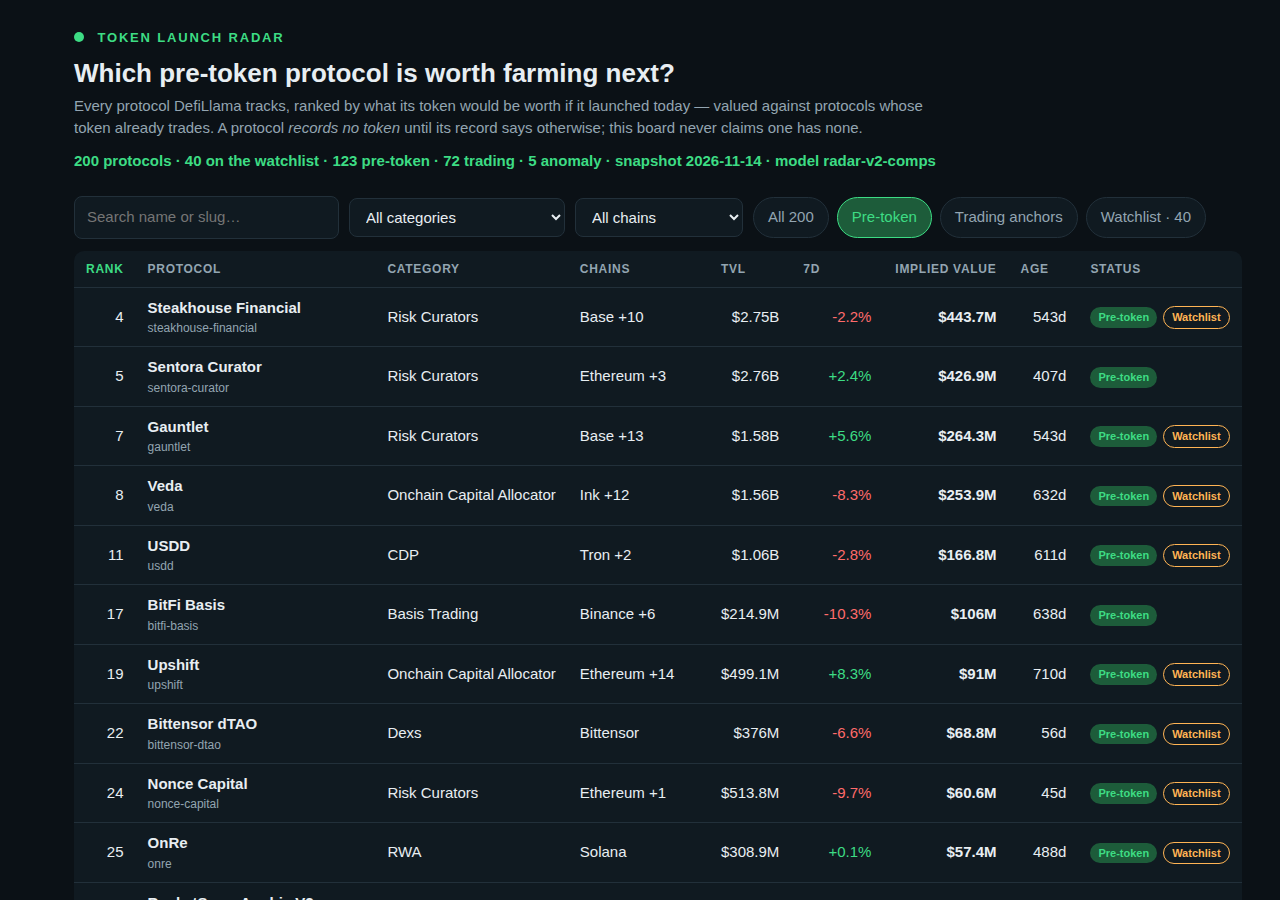
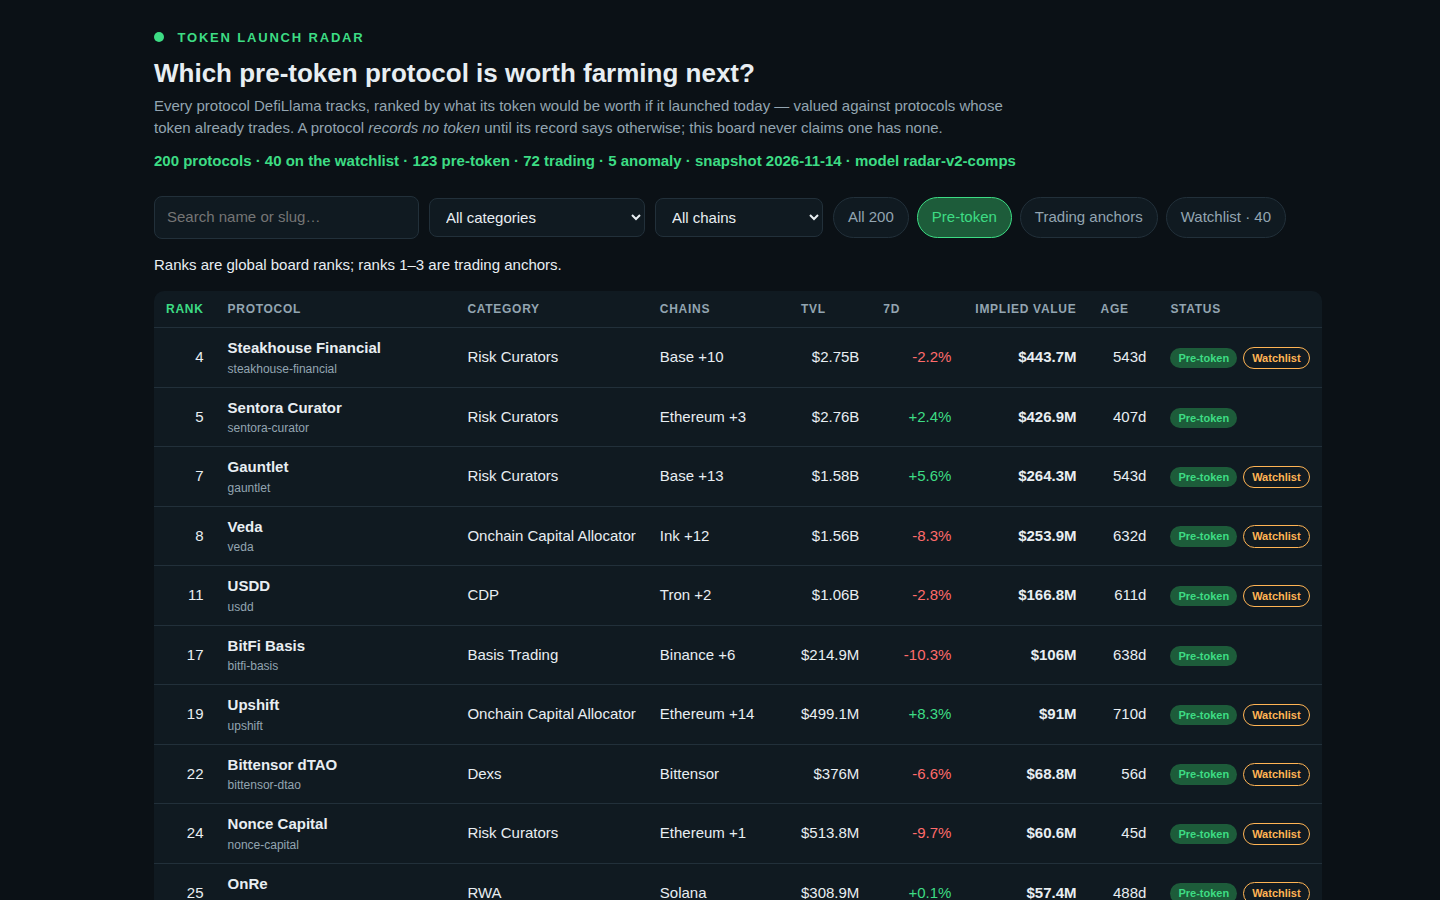
Round 6: charts screenshot, P_launch fill, META labels, rank caption
- 4th screenshot (4-charts.png, 1440x1200) shows both charts: comps multiple
  by category + TVL-vs-value scatter; slot 4/4 now used.
- P_launch renders as a 0-1 probability fill (green, toward 100%) instead of
  an amber diverging bar; note under the factors states M_cat and P_launch
  are below 1.0 for every pre-token protocol by construction.
- Pill labels (All N, Watchlist N) and the snapshot date / model version in
  the method note and footer now come from the embedded META data.
- Rank caption under the controls: ranks 1-3 are trading anchors (shown only
  on the pre-token / watchlist views).
- Board values unchanged (board.json byte-identical to round 5); dossier text
  61,344 bytes, headroom 4,192.

diff --git a/dashboard/app.js b/dashboard/app.js
@@ -94,6 +94,10 @@ function filtered() {
 
 function render() {
   const list = filtered();
+  // Ranks 1–3 are trading anchors, so the default pre-token view starts at rank 4.
+  // Say so only where it applies (pre-token / watchlist), not on the all / trading views.
+  const rankNote = $('rankNote');
+  if (rankNote) rankNote.hidden = !(statusFilter === 'pre-token' || statusFilter === 'watchlist');
   rowsEl.innerHTML = list.map((r) => {
     const chg = r.change_7d;
     const cls = chg === null ? '' : chg >= 0 ? 'up' : 'down';
@@ -119,14 +123,21 @@ function esc(s) {
   return String(s).replace(/&/g, '&amp;').replace(/</g, '&lt;').replace(/>/g, '&gt;').replace(/"/g, '&quot;');
 }
 
-function factorCard(label, value, note, num) {
+function factorCard(label, value, note, num, fill) {
   let bar = '';
   if (typeof num === 'number' && Number.isFinite(num) && num > 0) {
-    // Diverging bar centred on 1.0 (neutral): log scale, 0.05..20 spans the track.
-    const pos = Math.max(0, Math.min(100, 50 + (Math.log10(num) / 1.3) * 50));
-    const left = Math.min(50, pos), w = Math.abs(pos - 50);
-    const col = num >= 1 ? 'var(--accent)' : '#d97706';
-    bar = `<div class="fbar" role="img" aria-label="${label} ${num}"><div class="ftrack"><div class="ffill" style="left:${left.toFixed(1)}%;width:${Math.max(w, 1.5).toFixed(1)}%;background:${col}"></div><div class="fmid"></div></div></div>`;
+    if (fill) {
+      // Probability fill (0–1): fills left to right toward 100%, never amber-left.
+      // P_launch is a stated prior, so a fill reads as "how likely", not "how negative".
+      const w = Math.max(1.5, Math.min(100, num * 100));
+      bar = `<div class="fbar" role="img" aria-label="${label} ${num}"><div class="ftrack"><div class="ffill" style="left:0;width:${w.toFixed(1)}%;background:var(--accent)"></div></div></div>`;
+    } else {
+      // Diverging bar centred on 1.0 (neutral): log scale, 0.05..20 spans the track.
+      const pos = Math.max(0, Math.min(100, 50 + (Math.log10(num) / 1.3) * 50));
+      const left = Math.min(50, pos), w = Math.abs(pos - 50);
+      const col = num >= 1 ? 'var(--accent)' : '#d97706';
+      bar = `<div class="fbar" role="img" aria-label="${label} ${num}"><div class="ftrack"><div class="ffill" style="left:${left.toFixed(1)}%;width:${Math.max(w, 1.5).toFixed(1)}%;background:${col}"></div><div class="fmid"></div></div></div>`;
+    }
   }
   return `<div class="factor"><b>${value}</b><span>${label} — ${note}</span>${bar}</div>`;
 }
@@ -146,8 +157,9 @@ function showDetail(slug) {
       ${r.status === 'trading' ? '' : factorCard('F_growth', r.growth_multiplier.toFixed(3), '7-day momentum', r.growth_multiplier)}
       ${r.status === 'trading' ? '' : factorCard('F_age', r.age_multiplier.toFixed(3), 'age hump', r.age_multiplier)}
       ${r.status === 'trading' ? '' : factorCard('F_chain', r.chain_multiplier.toFixed(2), 'chain count', r.chain_multiplier)}
-      ${r.status === 'trading' ? '' : factorCard('P_launch', launch, 'stated prior', r.launch_probability)}
+      ${r.status === 'trading' ? '' : factorCard('P_launch', launch, 'stated prior', r.launch_probability, true)}
     </div>
+    ${r.status === 'trading' ? '' : '<p class="fine">M_cat and P_launch are multipliers below 1.0 for every pre-token protocol by construction.</p>'}
     ${r.status === 'trading' ? '<p class="fine">This protocol already trades: its implied value is the observed market cap. The comps factors do not apply.</p>' : ''}
     <h3>Farm plan</h3>
     <ol id="farm"><li>Loading the farm plan from board.json…</li></ol>
@@ -270,6 +282,16 @@ function init() {
     statsEl.textContent = 'No board data embedded.';
     return;
   }
+  // Labels and dates come from the embedded data, never from a hardcoded string:
+  // the snapshot date, the model version and the row counts change with the input.
+  const pillAll = $('pillAll'), pillWl = $('pillWl');
+  if (pillAll) pillAll.textContent = 'All ' + BOARD.length;
+  if (pillWl) pillWl.textContent = 'Watchlist · ' + (META ? META.watchlist_size : 40);
+  const snapDate = $('snapDate'), snapModel = $('snapModel'), footDate = $('footDate'), footModel = $('footModel');
+  if (snapDate) snapDate.textContent = META ? META.as_of : '2026-11-14';
+  if (snapModel) snapModel.textContent = META ? META.model_version : 'radar-v2-comps';
+  if (footDate) footDate.textContent = META ? META.as_of : '2026-11-14';
+  if (footModel) footModel.textContent = META ? META.model_version : 'radar-v2-comps';
   const pre = BOARD.filter((r) => r.status === 'pre-token').length;
   const trade = BOARD.filter((r) => r.status === 'trading').length;
   const anom = BOARD.filter((r) => r.status === 'trading-anomaly').length;

diff --git a/dashboard/index.html b/dashboard/index.html
@@ -19,14 +19,15 @@
   <select id="cat" aria-label="Filter by category"><option value="">All categories</option></select>
   <select id="chain" aria-label="Filter by chain"><option value="">All chains</option></select>
   <div class="pills" role="group" aria-label="Status filter">
-    <button data-f="all" type="button">All 200</button>
+    <button data-f="all" id="pillAll" type="button">All 200</button>
     <button data-f="pre-token" class="on" type="button">Pre-token</button>
     <button data-f="trading" type="button">Trading anchors</button>
-    <button data-f="watchlist" type="button">Watchlist · 40</button>
+    <button data-f="watchlist" id="pillWl" type="button">Watchlist · 40</button>
   </div>
 </section>
 
 <main>
+  <p class="fine" id="rankNote">Ranks are global board ranks; ranks 1–3 are trading anchors.</p>
   <table id="board">
     <thead>
       <tr>
@@ -63,11 +64,11 @@
     <li><strong>P<sub>launch</sub></strong> — a stated prior, not an observation: 0.65 for watchlist-eligible protocols, 0.50 for other pre-token ones.</li>
   </ul>
   <p>Pre-token means all three token fields are null (market cap, CoinGecko id, symbol). The board holds 200 rows: the whole 40-protocol watchlist plus the 160 highest-valued others outside bridges, staked products and exchanges. Each row carries a farm plan with concrete costs and times.</p>
-  <p class="fine">Snapshot: DefiLlama protocols at or above $5,000,000 TVL, fetched 2026-11-14. Model radar-v2-comps. The program runs twice and writes identical bytes; nothing here fetches the network.</p>
+  <p class="fine">Snapshot: DefiLlama protocols at or above $5,000,000 TVL, fetched <span id="snapDate">2026-11-14</span>. Model <span id="snapModel">radar-v2-comps</span>. The program runs twice and writes identical bytes; nothing here fetches the network.</p>
 </section>
 
 <footer>
-  <p>Token Launch Radar · model radar-v2-comps · snapshot 2026-11-14 · values are the entry's own claim, never a promise a token launches.</p>
+  <p>Token Launch Radar · model <span id="footModel">radar-v2-comps</span> · snapshot <span id="footDate">2026-11-14</span> · values are the entry's own claim, never a promise a token launches.</p>
 </footer>
 
 <script src="app.js"></script>

diff --git a/dashboard/app.css b/dashboard/app.css
@@ -84,6 +84,7 @@ td .slug { color: var(--muted); font-size: 12px; display: block; }
   overflow: auto;
 }
 #detail[hidden] { display: none; }
+#rankNote[hidden] { display: none; }
 #detail .detail-card { max-width: 860px; width: 100%; margin-top: 40px; }
 .detail-card {
   background: var(--panel); border: 1px solid var(--accent-dim); border-radius: var(--radius);
